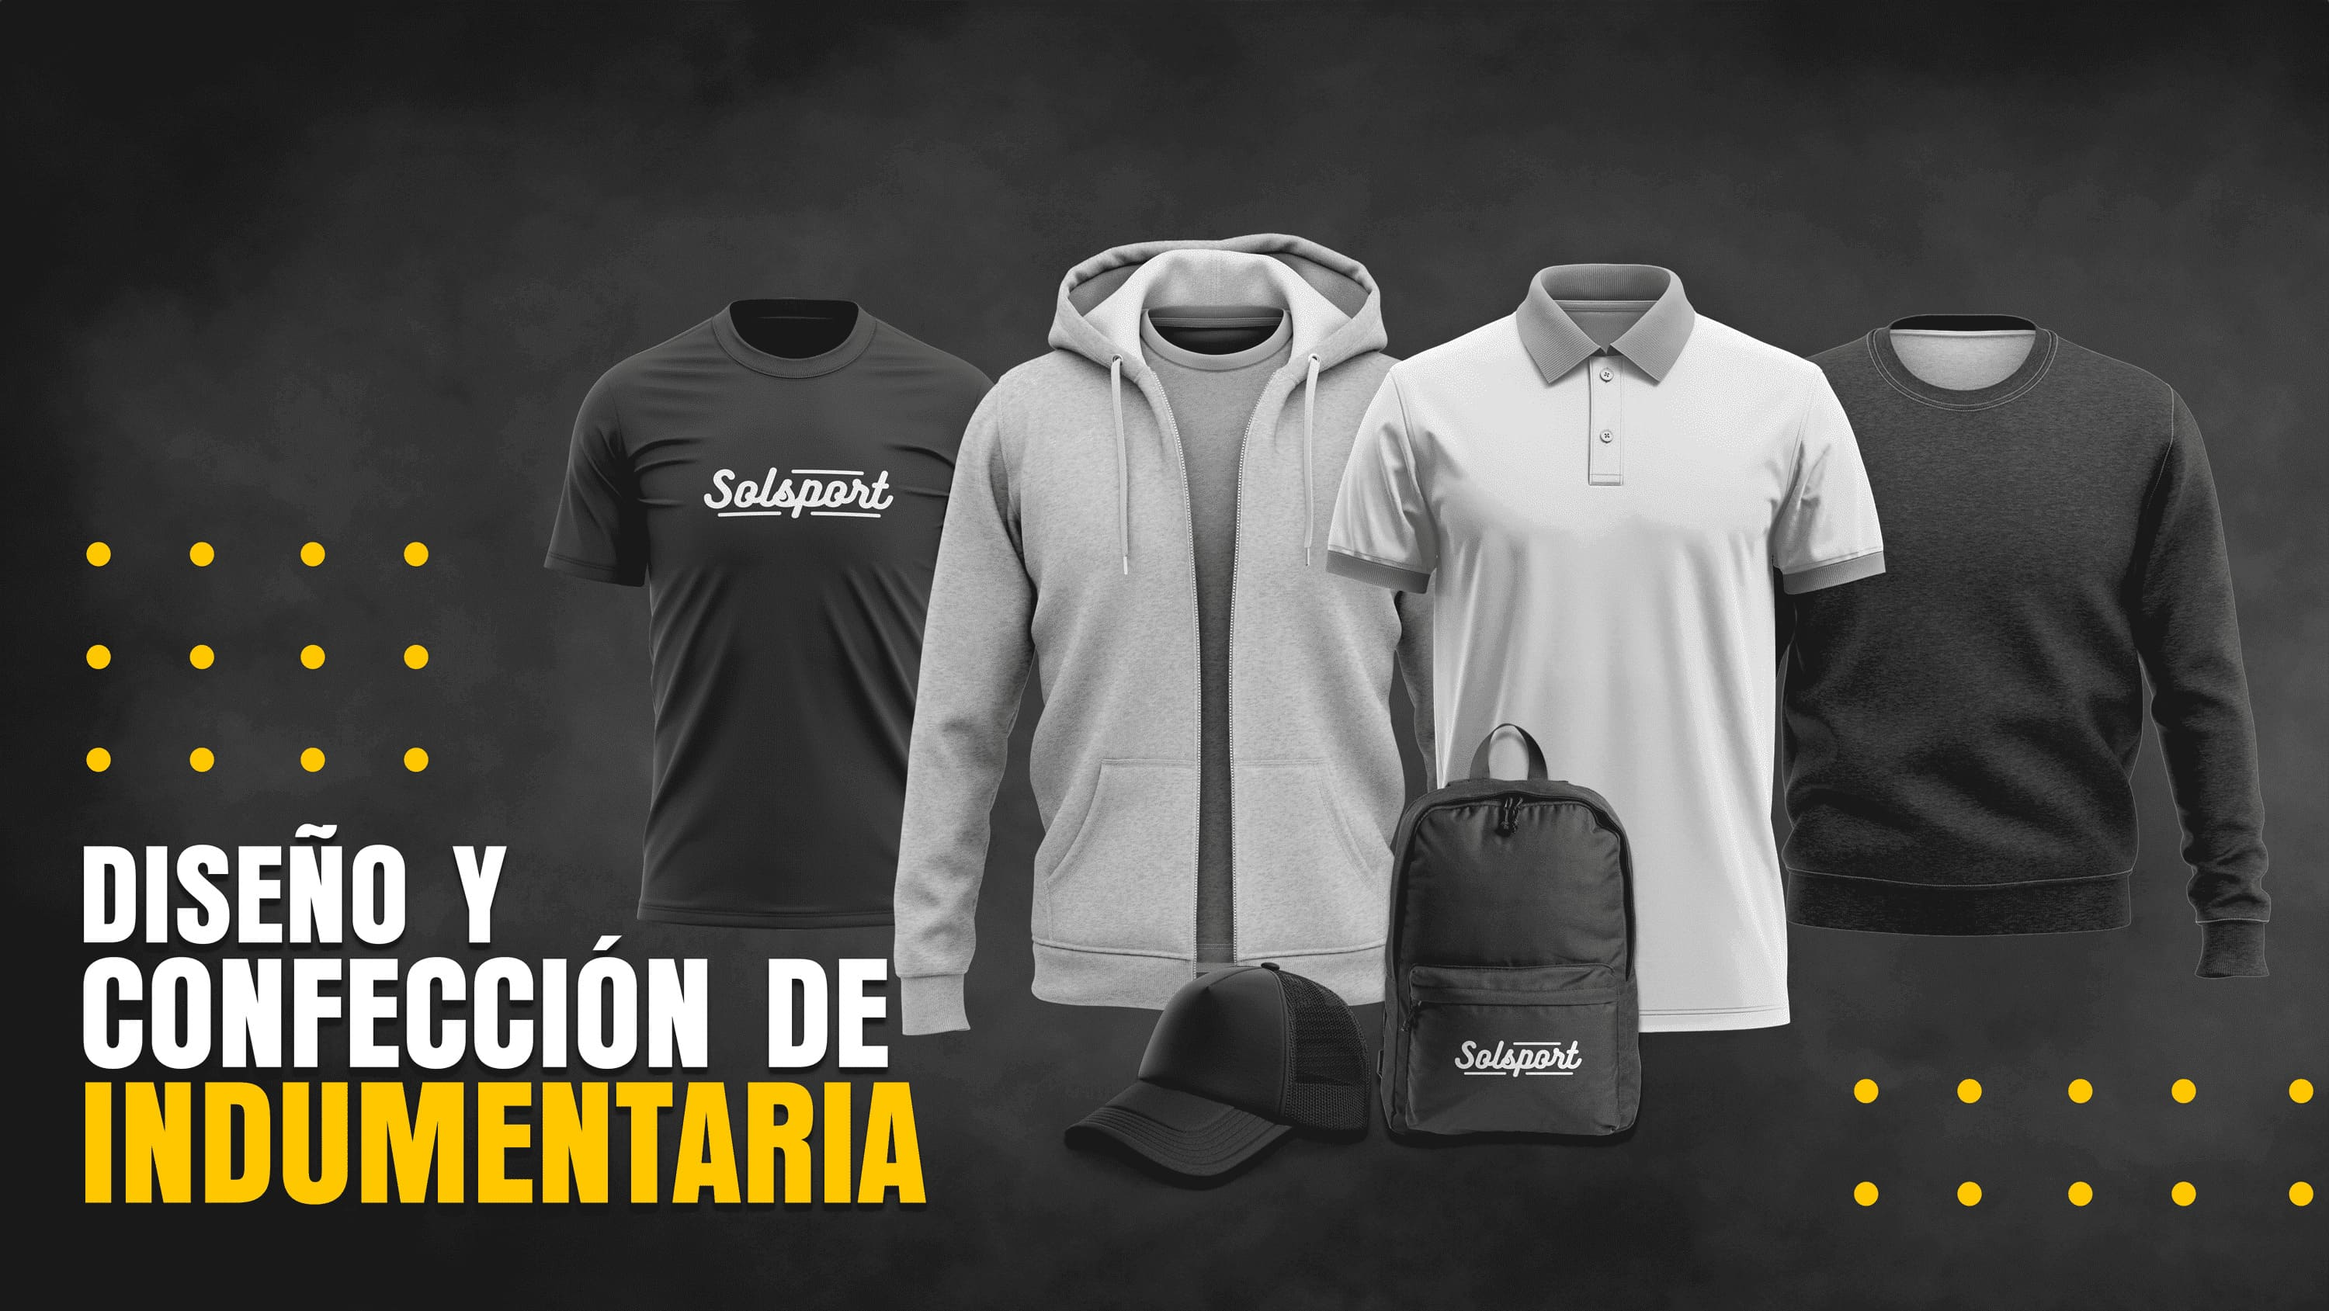
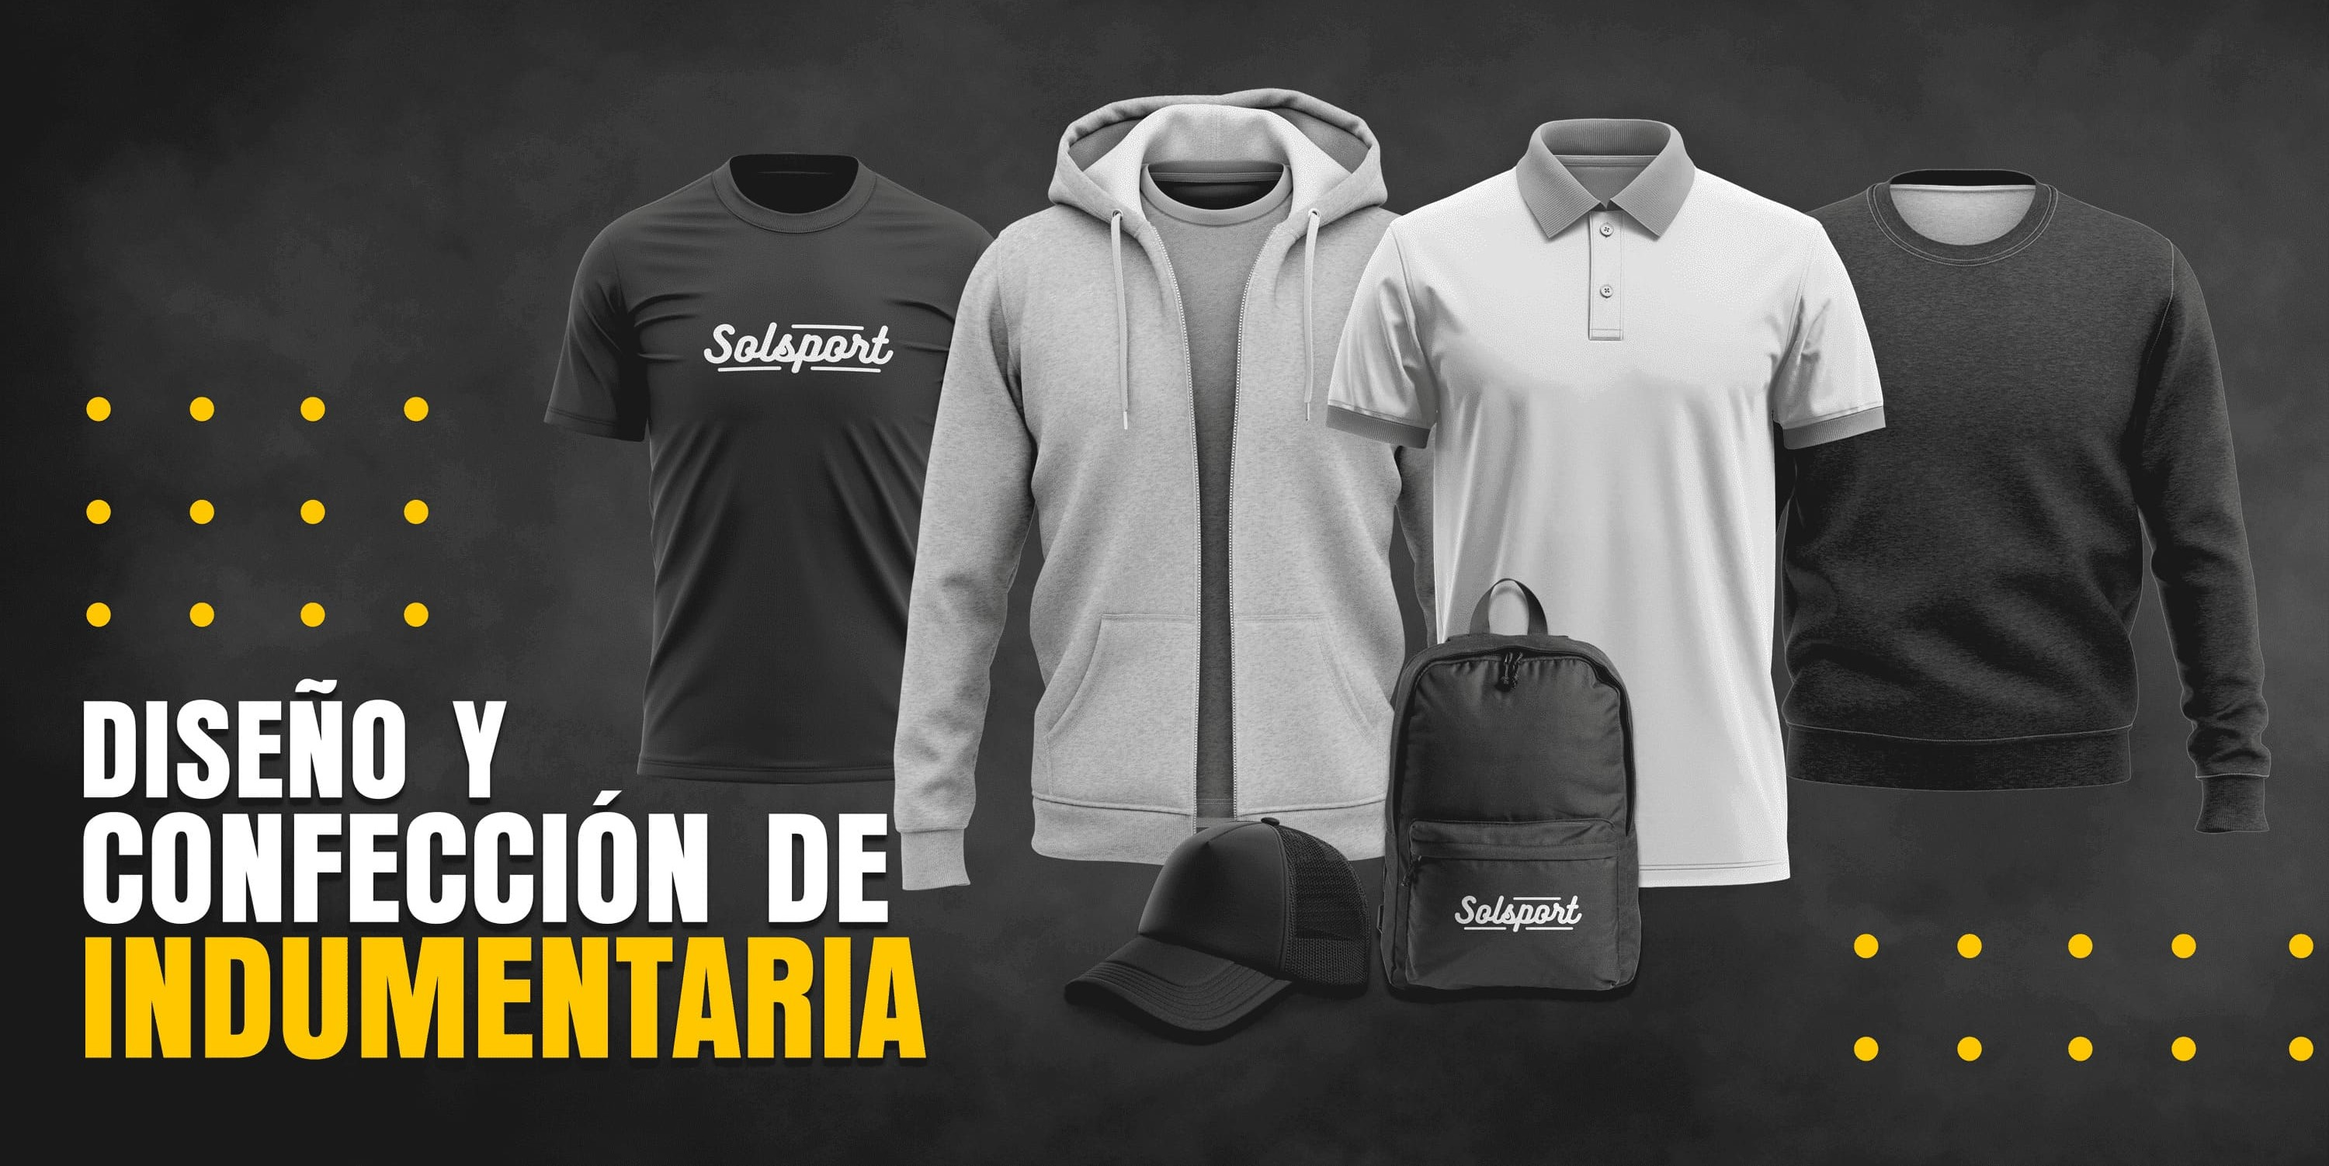
cambios responsividad y correcciones

diff --git a/src/components/pages/productos/Productos.jsx b/src/components/pages/productos/Productos.jsx
@@ -8,7 +8,7 @@ import ProductGrid from "../../common/ProductGrid/ProductGrid";
 import { Link, useNavigate, useParams } from "react-router-dom";
 import ContactoFooter from "../../common/Sections/ContactoSection/ContactoFooter";
 
-function NavList({ onSelectCategory }) {
+function NavList({ onSelectCategory, handleClose }) {
   const [categories, setCategories] = useState([]);
   const navigate = useNavigate();
   const { category: selectedCategory } = useParams();
@@ -27,6 +27,9 @@ function NavList({ onSelectCategory }) {
       } else {
         navigate(`/irinagorlino/productos/${title.toLowerCase()}`);
       }
+      if (handleClose) {
+        handleClose(); // Llamar a la función handleClose al hacer clic en una categoría
+      }
     }
   };
 
@@ -42,7 +45,10 @@ function NavList({ onSelectCategory }) {
         className={`p-2 font-medium text-xl cursor-pointer hover:text-yellowSol transition-colors ${
           !selectedCategory ? "text-yellowSol cursor-pointer" : "text-white"
         }`}
-        onClick={() => navigate("/irinagorlino/productos")}
+        onClick={() => {
+          navigate("/irinagorlino/productos");
+          if (handleClose) handleClose();
+        }}
       >
         <div className="flex flex-col justify-center items-center gap-2">
           <img
@@ -67,7 +73,10 @@ function NavList({ onSelectCategory }) {
             className={`p-2 font-medium text-xl cursor-pointer hover:text-yellowSol transition-colors ${
               isSelected ? "text-yellowSol cursor-pointer" : ""
             }`}
-            onClick={() => handleCategoryClick(item.title)}
+            onClick={() => {
+              handleCategoryClick(item.title);
+              if (handleClose) handleClose();
+            }}
           >
             <div className="flex flex-col justify-center items-center gap-2">
               <img
@@ -128,6 +137,9 @@ const Productos = () => {
       window.removeEventListener("resize", handleWindowResize);
     };
   }, []);
+
+  const handleCloseNav = () => setOpenNav(false);
+
   return (
     <div className="md:mt-20 mt-10">
       <div>
@@ -141,7 +153,7 @@ const Productos = () => {
       <Navbar className="bg-blackSol border-none shadow-none mx-auto px-6 py-3 mt-6">
         <div className="flex items-center justify-center">
           <div className="hidden lg:block">
-            <NavList />
+            <NavList handleClose={handleCloseNav} />
           </div>
           <Button
             variant="text"
@@ -150,13 +162,13 @@ const Productos = () => {
             onClick={() => setOpenNav(!openNav)}
           >
             <Typography className="flex items-center gap-6">
-              Ver todas las categorías
+              {category ? category.toUpperCase() : "Ver todas las categorías"}
               <MdOutlineKeyboardArrowDown className="h-8 w-8" />
             </Typography>
           </Button>
         </div>
         <Collapse open={openNav}>
-          <NavList />
+          <NavList handleClose={handleCloseNav} />
         </Collapse>
       </Navbar>
       {loading ? (

diff --git a/src/components/pages/servicios/Servicios.jsx b/src/components/pages/servicios/Servicios.jsx
@@ -102,7 +102,7 @@ const Servicios = () => {
           proceso.
         </Typography>
       </div>
-      <section className="servicesIcons flex flex-wrap justify-center items-center gap-10 mb-12 px-4">
+      <section className="servicesIcons flex flex-wrap justify-center items-center md:gap-10 gap-4 mb-12 px-10">
         {listServicesIcons.map((item, index) => (
           <Card
             className="mt-6 w-96 flex justify-center bg-gray-800"
@@ -133,11 +133,11 @@ const Servicios = () => {
               <section
                 id={generateId(item.title)}
                 key={index}
-                className={`grid grid-cols-2 lg:mx-36 md:mx-20 mx-8 md:h-[500px] h-[300px] items-center justify-between ${classname}`}
+                className={`grid grid-cols-2 mx-32 md:h-[500px] h-[300px] items-center justify-between ${classname}`}
               >
                 {classname === "justify-end text-right" ? (
                   <>
-                    <div className="md:h-[500px] h-full" data-aos="fade-left">
+                    <div className=" md:h-[500px] h-full" data-aos="fade-left">
                       <img
                         src={item.img}
                         alt={item.title}
@@ -149,7 +149,7 @@ const Servicios = () => {
                       data-aos="fade-left"
                     >
                       <div className={`${classname} `}>
-                        <Typography className="font-bold md:text-5xl text-3xl text-yellowSol">
+                        <Typography className="font-bold md:text-5xl text-xl text-yellowSol">
                           {item.title}
                         </Typography>
                         <Typography className="text-white md:text-xl text-lg">
@@ -165,10 +165,10 @@ const Servicios = () => {
                       data-aos="fade-right"
                     >
                       <div className={`${classname}`}>
-                        <Typography className="font-bold md:text-5xl text-3xl text-yellowSol">
+                        <Typography className="font-bold md:text-5xl text-xl text-yellowSol">
                           {item.title}
                         </Typography>
-                        <Typography className="text-white  md:text-xl text-lg">
+                        <Typography className="text-white md:text-xl text-lg">
                           {item.description}
                         </Typography>
                       </div>

diff --git a/src/components/common/Sections/ContactoSection/ContactoFooter.jsx b/src/components/common/Sections/ContactoSection/ContactoFooter.jsx
@@ -16,19 +16,19 @@ const ContactoFooter = () => {
     {
       icon: <IoLocationOutline className="w-8 h-8 mt-2" />,
       title: "Localidad",
-      info: "Bv. 25 de Mayo 850 (1er. Piso), Devoto (Cba)",
+      info: ["Bv. 25 de Mayo 850, ", "1er. Piso", " Devoto (Cba)."],
       color: "text-yellowSol border-2 border-yellowSol",
     },
     {
       icon: <MdOutlineMail className="w-8 h-8 mt-2" />,
       title: "Email",
-      info: "solsportindumentaria@gmail.com",
+      info: "info@sol-sport.com.ar",
       color: "bg-yellowSol",
     },
     {
       icon: <FaRegClock className="w-8 h-8 mt-2" />,
       title: "Horarios",
-      info: "Lunes a Viernes 08:00-16:00. Sábados 08:00-12:00",
+      info: ["Lunes a Viernes", " 08:00-16:00hs.", "Sábados 08:00-12:00hs."],
       color: "text-yellowSol border-2 border-yellowSol",
     },
   ];
@@ -37,21 +37,22 @@ const ContactoFooter = () => {
       {datosContacto.map((item, index) => (
         <div
           key={index}
-          className={`flex flex-col w-[200px] h-[200px] items-center overflow-clip px-2 justify-center text-center rounded-lg ${item.color}`}
+          className={`flex flex-col w-[200px] h-[200px] items-center overflow-clip px-2 justify-start pt-6 text-center rounded-lg ${item.color}`}
         >
           {item.icon}
           <Typography className="mt-4 font-bold text-base">
             {item.title}
           </Typography>
-          {item.info !== "solsportindumentaria@gmail.com" ? (
-            <Typography className="font-medium mt-2 text-sm">
-              {item.info}
-            </Typography>
-          ) : (
-            <Typography className="font-medium mt-2 text-xs">
-              {item.info}
-            </Typography>
-          )}
+          <Typography className="font-medium mt-2 text-sm">
+            {Array.isArray(item.info)
+              ? item.info.map((line, lineIndex) => (
+                  <React.Fragment key={lineIndex}>
+                    {line}
+                    {lineIndex < item.info.length - 1 && <br />}
+                  </React.Fragment>
+                ))
+              : item.info}
+          </Typography>
         </div>
       ))}
     </div>

diff --git a/src/components/pages/materiales/Materiales.jsx b/src/components/pages/materiales/Materiales.jsx
@@ -26,10 +26,10 @@ const Materiales = () => {
         variant="paragraph"
         className="text-center text-white md:mt-8 mt-4 mb-6 md:mx-60 mx-6 md:text-xl text-lg"
       >
-        En nuestra fábrica de indumentaria textil nos enorgullece ofrecer
-        productos de alta calidad confeccionados con los mejores materiales del
-        mercado. Utilizamos una amplia variedad de telas para garantizar la
-        comodidad y durabilidad de nuestras prendas.
+        En Solsport nos enorgullece ofrecer productos de alta calidad
+        confeccionados con los mejores materiales del mercado. Utilizamos una
+        amplia variedad de telas para garantizar la comodidad y durabilidad de
+        nuestras prendas.
       </Typography>
       <div>
         <div
@@ -46,7 +46,7 @@ const Materiales = () => {
             </Typography>
           </div>
           <div className="absolute inset-0 opacity-0 group-hover:opacity-100 transition-opacity duration-300 bg-blackSol/90 flex justify-center items-center z-20">
-            <Typography className=" text-white p-4 text-xl w-2/4">
+            <Typography className=" text-white p-4 md:text-xl md:w-2/4 w-full text-lg">
               Entre los principales materiales que empleamos se encuentran las
               <span className="font-semibold"> telas de punto</span>, conocidas
               por su elasticidad y suavidad, ideales para ropa casual.
@@ -100,7 +100,7 @@ const Materiales = () => {
             </Typography>
           </div>
           <div className="absolute inset-0 opacity-0 group-hover:opacity-100 transition-opacity duration-300 bg-blackSol/90 flex justify-center items-center z-20">
-            <Typography className=" text-white p-4 text-xl w-2/4">
+            <Typography className=" text-white p-4 md:text-xl md:w-2/4 w-full text-lg">
               También utilizamos
               <span className="font-semibold"> telas planas</span>, reconocidas
               por su resistencia y versatilidad, perfectas para prendas

diff --git a/src/components/layout/Navbar/Navbar.jsx b/src/components/layout/Navbar/Navbar.jsx
@@ -11,7 +11,7 @@ import { useState, useEffect } from "react";
 import { Link, NavLink, useLocation } from "react-router-dom";
 import { FaUserAlt } from "react-icons/fa";
 
-function NavList() {
+function NavList({ handleClose }) {
   const lists = [
     { name: "Inicio", path: "/irinagorlino/" },
     { name: "Nosotros", path: "/irinagorlino/nosotros" },
@@ -39,6 +39,7 @@ function NavList() {
                 ? "font-semibold text-yellowSol border-b-2 border-yellowSol"
                 : ""
             }`}
+            onClick={handleClose}
           >
             {list.name.toUpperCase()}
           </Link>
@@ -87,6 +88,8 @@ export function NavbarSimple() {
     };
   }, []);
 
+  const handleCloseNav = () => setOpenNav(false); // Nueva función para cerrar el navbar
+
   return (
     <div className="max-h-[768px]">
       <Navbar className="fixed top-0 z-50 h-max max-w-full rounded-none px-2 py-2 lg:px-8 lg:py-4 bg-blackSol border-transparent">
@@ -99,7 +102,7 @@ export function NavbarSimple() {
             />
           </Link>
           <div className="hidden xl:block">
-            <NavList />
+            <NavList handleClose={handleCloseNav} />
           </div>
           <IconButton
             variant="text"
@@ -115,7 +118,7 @@ export function NavbarSimple() {
           </IconButton>
         </div>
         <Collapse open={openNav}>
-          <NavList />
+          <NavList handleClose={handleCloseNav} />
         </Collapse>
       </Navbar>
     </div>

diff --git a/src/components/common/Sections/ServiciosSection/ServiciosSection.jsx b/src/components/common/Sections/ServiciosSection/ServiciosSection.jsx
@@ -1,6 +1,7 @@
 import { Typography, Button, Spinner } from "@material-tailwind/react";
 import { useEffect, useState } from "react";
 import { Link } from "react-router-dom";
+import { HashLink } from "react-router-hash-link";
 import Aos from "aos";
 import "aos/dist/aos.css";
 import { getServices } from "../../../../services/apiServices";
@@ -73,7 +74,10 @@ const ServiciosSection = () => {
                   {list.title.toUpperCase()}
                 </Typography>
                 <div className="absolute bottom-0 w-full">
-                  <a href={`/irinagorlino/servicios#${generateId(list.title)}`}>
+                  <HashLink
+                    smooth
+                    to={`/irinagorlino/servicios#${generateId(list.title)}`}
+                  >
                     <Button
                       fullWidth
                       ripple={false}
@@ -81,7 +85,7 @@ const ServiciosSection = () => {
                     >
                       Ver más
                     </Button>
-                  </a>
+                  </HashLink>
                 </div>
               </div>
             </div>

diff --git a/src/components/pages/administrador/Login.jsx b/src/components/pages/administrador/Login.jsx
@@ -13,6 +13,7 @@ import PrivateRoute from "../../../auth/PrivateRoute";
 const Login = () => {
   const [usernameAdmin, setUsernameAdmin] = useState("");
   const [passwordAdmin, setPasswordAdmin] = useState("");
+  const [isLoading, setIsLoading] = useState(false);
   const [token, isToken] = useState(localStorage.getItem("token"));
   const [error, setError] = useState(null);
   const { login } = useAuth();
@@ -20,6 +21,7 @@ const Login = () => {
 
   const handleSubmit = async (e) => {
     e.preventDefault();
+    setIsLoading(true);
     try {
       if (usernameAdmin !== "" && passwordAdmin !== "") {
         const data = await login(usernameAdmin, passwordAdmin);
@@ -92,8 +94,9 @@ const Login = () => {
           </div>
           <Button
             type="submit"
-            className="mt-6 bg-yellowSol text-base text-black"
+            className="mt-6 bg-yellowSol text-base text-black flex justify-center"
             fullWidth
+            loading={isLoading ? true : false}
           >
             Iniciar Sesión
           </Button>

diff --git a/src/components/common/Banner/BannerQors/BannerQors.jsx b/src/components/common/Banner/BannerQors/BannerQors.jsx
@@ -10,7 +10,7 @@ const BannerQors = () => {
       }}
     >
       <img
-        src="frontend/dist/camiseta futbol 1.png"
+        src="frontend/dist/camiseta-futbol-1.png"
         alt=""
         className="object-top hidden md:block lg:h-[350px] h-full my-3 mr-2"
       />
@@ -37,7 +37,7 @@ const BannerQors = () => {
         </div>
       </div>
       <img
-        src="frontend/dist/camiseta futbol 2.png"
+        src="frontend/dist/camiseta-futbol-2.png"
         alt=""
         className=" lg:h-[350px] h-full object-top hidden md:block my-3"
       />

diff --git a/src/components/common/Carousel/CarouselImg.jsx b/src/components/common/Carousel/CarouselImg.jsx
@@ -4,11 +4,11 @@ import { useState, useRef, useEffect } from "react";
 export function CarouselTransition() {
   return (
     <section className="rounded-xl">
-      <div className="2xl:h-screen h-full w-full xl:mt-4">
+      <div className="w-full h-full">
         <img
           src="/BANNER-NUEVO.jpg"
           alt="image 1"
-          className="h-full w-full object-cover object-bottom"
+          className="w-full h-full xl:mt-11 md:mt-6 mt-3.5 object-cover object-bottom"
         />
       </div>
     </section>

diff --git a/index.html b/index.html
@@ -11,6 +11,14 @@
       rel="stylesheet"
     />
     <title>Solsport</title>
+    <meta
+      name="description"
+      content="Solsport es una empresa que se dedica a la confección de indumentaria deportiva, escolar, empresarial y publicitaria con más de -20 años- de trayectoria."
+    />
+    <meta
+      name="keywords"
+      content="INDUMENTARIA, FÁBRICA, TEXTIL, DEPORTIVA, ESCOLAR, EMPRESARIAL, PUBLICITARIA, ROPA"
+    />
   </head>
   <body>
     <div id="root"></div>

diff --git a/src/components/layout/Footer/Footer.jsx b/src/components/layout/Footer/Footer.jsx
@@ -33,8 +33,7 @@ const Footer = () => {
             </li>
             <li>
               <Typography color="black" className="font-normal">
-                <span className="font-bold">Email: </span>{" "}
-                solsportindumentaria@gmail.com
+                <span className="font-bold">Email: </span> info@sol-sport.com.ar
               </Typography>
             </li>
           </ul>

diff --git a/src/components/common/Sections/ClientesSection/ClientesSection.jsx b/src/components/common/Sections/ClientesSection/ClientesSection.jsx
@@ -68,7 +68,7 @@ const ClientesSection = () => {
                   key={client.id}
                   className="flex justify-center items-center h-full mt-2"
                 >
-                  {client.title === "Fasta" ? (
+                  {client.title.startsWith("Escudo") ? (
                     <img
                       src={client.img}
                       alt={client.title}
